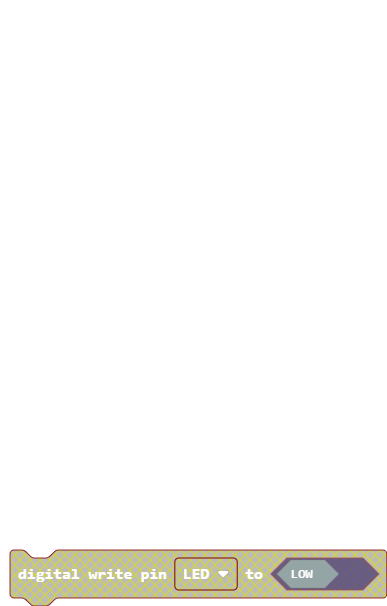
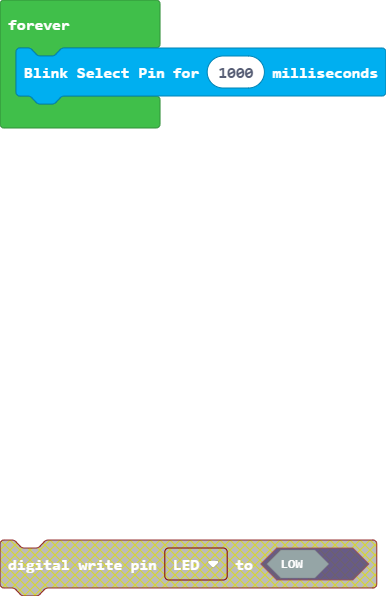
Update main.blocks, main.ts, custom.ts

Changed region(s): [[0.0, 0.0, 1.0, 0.2416], [0.0, 0.906, 1.0, 1.0]]

diff --git a/custom.ts b/custom.ts
@@ -2,7 +2,7 @@
  * Custom blocks
  */
 
-//% weight=1000 color=#00AFF0 icon="\uf121"
+//% weight=1000 color=#3AFF00 icon="\uf121"
 namespace EnginoBit {
     /**
       * Turn on led for duration
@@ -12,9 +12,9 @@ namespace EnginoBit {
     //% block="Blink Select Pin $pin for $duration milliseconds"
     export function led_on_for_duration(duration: number): void {
     pins.LED.digitalWrite(true)
-    control.waitMicros(duration)
+    control.waitMicros(duration*1000)
     pins.LED.digitalWrite(false)
-    control.waitMicros(duration)
+    control.waitMicros(duration*1000)
    
     }
 

diff --git a/main.ts b/main.ts
@@ -1,3 +1,3 @@
 forever(function () {
-	
+    EnginoBit.led_on_for_duration(1000)
 })
